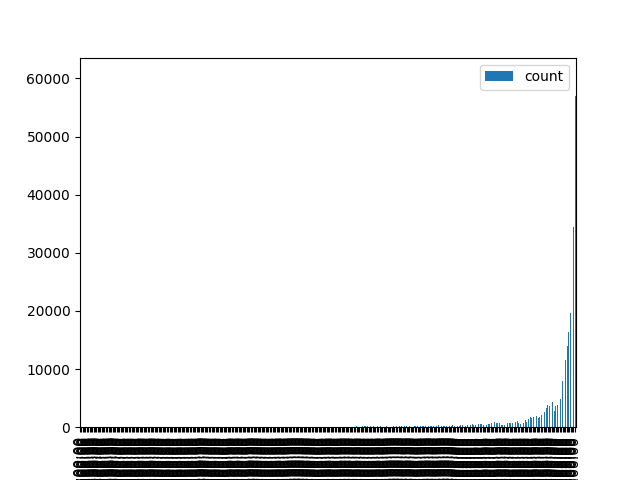
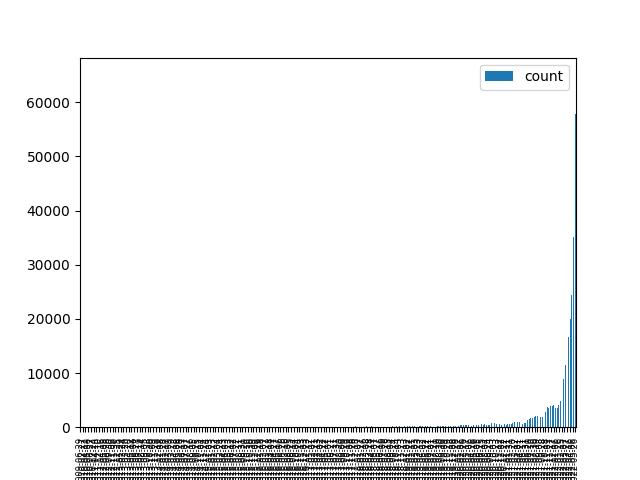
fix tweets date count

diff --git a/main.py b/main.py
@@ -7,6 +7,9 @@ import sys
 import collections as col
 import matplotlib.pyplot as plt
 import numpy as np
+import library.restructure as res
+
+
 
 def main(step_number: int):
     if step_number == 1:
@@ -30,9 +33,15 @@ def main(step_number: int):
 
     if step_number == 6:
         tweets_df_gen = fo.load_by_one_all_individual()
-        tweets_date_count_df = proc.count_tweets_date(tweets_df_gen, '24H')
+        tweets_date_count_df = proc.count_tweets_date(tweets_df_gen, 'H')
         fo.save_tweets_date_count(tweets_date_count_df)
         draw.tweets_date_count(tweets_date_count_df, 10)
+
+    if step_number == 7:
+        tweets_date_count_df = fo.load_tweets_date_count()
+        tweets_date_count_df_clean = res.clean_tweets_date_count(tweets_date_count_df)
+        draw.tweets_date_count(tweets_date_count_df_clean, 1)
+    
 
 if __name__=="__main__":
     main(7)

diff --git a/library/draw.py b/library/draw.py
@@ -3,20 +3,21 @@ import pandas as pd
 
 
 def tweets_types_count(tweet_types_count: pd.DataFrame):
-    
+
     fig, ax = plt.subplots()
     names_of_x_axis = tweet_types_count.columns
     data = tweet_types_count.values
     ax.bar(names_of_x_axis.values, data[0])
 
     plt.savefig('./images/tweets_types_count.png')    
-
+    plt.clf()
 
 def tweets_date_count(tweets_date_count_df: pd.DataFrame, nth_date_xtick: int):
-
+    plt.figure(figsize=(800/96, 800/96), dpi=96)
     ax = tweets_date_count_df.plot.bar(x='date', y='count')
     ax_xticks = tweets_date_count_df.iloc[::nth_date_xtick, :]
+    ax.tick_params(axis='x', which='both', labelsize=6)
     ax.set_xticks(ax_xticks.date.index)
-    ax.set_xticklabels(ax_xticks.date)
-
-    plt.savefig('./images/tweets_date_count.png')    
+    ax.set_xticklabels(ax_xticks.date)   
+    plt.show()
+    plt.clf()

diff --git a/library/process.py b/library/process.py
@@ -51,17 +51,16 @@ def get_individual_tweets_date(tweets_individual: pd.DataFrame, round_hours: str
     all data of users that this user is following.
     '''
 
-    tweets_date = pd.to_datetime(tweets_individual['created_at'])\
-                    .round(round_hours)
+    tweets_date = pd.to_datetime(tweets_individual['created_at']).dt.date
 
     return tweets_date
 
 
-def count_tweets_date(tweets_df_list: list, round_hours: str) -> pd.DataFrame:
+def count_tweets_date(tweets_df_gen, round_hours: str) -> pd.DataFrame:
 
     tweets_date_dict = col.defaultdict(int)
 
-    for tweets_df in tweets_df_list:
+    for tweets_df in tweets_df_gen:
         tweets_date = get_individual_tweets_date(tweets_df, round_hours)
 
         for indx, tweet_date in tweets_date.items():

diff --git a/library/restructure.py b/library/restructure.py
@@ -110,3 +110,11 @@ def get_following_ids_of_an_user(user_following_id: np.uint64) -> list:
     following_ids_of_an_user = list(json_file['Following'])
 
     return following_ids_of_an_user
+
+
+def clean_tweets_date_count(tweets_date_count_df: pd.DataFrame):
+    df = tweets_date_count_df.tail(1000)
+    # df['date'] = pd.to_datetime(df.loc['date']).dt.date
+    df.reset_index(drop=True, inplace=True)
+
+    return df

diff --git a/library/filesoperations.py b/library/filesoperations.py
@@ -42,7 +42,7 @@ def save_all_tweets_types_count():
 def save_tweets_date_count(tweets_date_count_df: pd.DataFrame):
     tweets_date_count_df.to_feather('./processed/tweets_date_count')  
 
-def load_tweets_date_count():
+def load_tweets_date_count() -> pd.DataFrame:
     tweets_date_count_df = pd.read_feather('./processed/tweets_date_count')  
 
     return tweets_date_count_df
